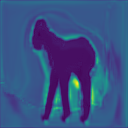
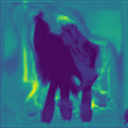
run on several objects

diff --git a/run_all.py b/run_all.py
@@ -1,0 +1,159 @@
+#!/usr/bin/env python
+import os
+import sys
+import cv2
+import numpy as np
+import random
+import h5py
+from argparse import ArgumentParser
+
+# Import Mask RCNN
+ROOT_DIR_MASK = os.path.dirname(os.path.realpath(__file__))
+# ROOT_DIR_MASK = os.path.abspath("../")
+ROOT_DIR_MASK += "/Mask_RCNN"
+sys.path.append(ROOT_DIR_MASK)  # To find local version of the library
+from mrcnn import utils
+from mrcnn import visualize
+import mrcnn.model as modellib
+
+# Import COCO config
+sys.path.append(os.path.join(ROOT_DIR_MASK, "samples/coco/"))  # To find local version
+import coco
+
+# Import all Monkey-Net resources
+import matplotlib
+matplotlib.use('Agg')
+import torch
+from transfer import transfer_one
+import yaml
+from logger import Logger
+from modules.generator import MotionTransferGenerator
+from modules.keypoint_detector import KPDetector
+import imageio
+from sync_batchnorm import DataParallelWithCallback
+from frames_dataset import read_video
+from augmentation import VideoToTensor
+
+
+
+
+
+# Directory to save logs and trained model
+MODEL_DIR = os.path.join(ROOT_DIR_MASK, "logs")
+# Local path to trained weights file
+COCO_MODEL_PATH = os.path.join(ROOT_DIR_MASK, "mask_rcnn_coco.h5")
+# Download COCO trained weights from Releases if needed
+if not os.path.exists(COCO_MODEL_PATH):
+    utils.download_trained_weights(COCO_MODEL_PATH)
+
+
+# Mask RCNN
+class InferenceConfig(coco.CocoConfig):
+    # Set batch size to 1 since we'll be running inference on
+    # one image at a time. Batch size = GPU_COUNT * IMAGES_PER_GPU
+    GPU_COUNT = 1
+    IMAGES_PER_GPU = 1
+
+
+class RoisDetector(object):
+    def __init__(self):
+        self.config = InferenceConfig()
+        # self.config.display()
+        # Create model object in inference mode.
+        self.model = modellib.MaskRCNN(mode="inference", model_dir=MODEL_DIR, config=self.config)
+        # Load weights trained on MS-COCO
+        self.model.load_weights(COCO_MODEL_PATH, by_name=True)
+
+        # COCO Class names
+        # Index of the class in the list is its ID. For example, to get ID of
+        # the teddy bear class, use: class_names.index('teddy bear')
+        self.class_names = ['BG', 'person']
+
+    def get_rois(self, origin_image):
+        # Run detection
+        results = self.model.detect([origin_image], verbose=0)
+        r = results[0]
+        rois = []
+        for i in range(len(r['class_ids'])):
+            y1, x1, y2, x2 = r['rois'][i]
+            rois.append([min(x1, x2), min(y1, y2), max(x1, x2), max(y1, y2)])
+        return rois
+
+
+if __name__ == "__main__":
+    parser = ArgumentParser()
+    parser.add_argument("--image", default='sup-mat/tai-chi.jpg', help="Path to input image")
+    parser.add_argument("--driving_video", required = True, help = 'The driving video')
+    parser.add_argument("--config", required = True, help = "The configuration")
+    parser.add_argument("--checkpoint", required = True, help = "The checkpoint")
+    parser.add_argument("--image_shape", default = (128, 128), type = lambda x: tuple([int(a) for a in x.split(',')]), help = 'Image shape')
+    parser.add_argument("--out_file", default = 'demo', help = "Name of output file without format")
+    parser.add_argument("--cpu", dest = "cpu", action = "store_true", help = "Use cpu")
+
+    opt = parser.parse_args()
+    image = cv2.imread(opt.image)
+
+    rd = RoisDetector()
+    rois = rd.get_rois(image)
+    img = np.copy(image)
+    
+
+    with open(opt.config) as f:
+            config = yaml.load(f)
+            blocks_discriminator = config['model_params']['discriminator_params']['num_blocks']
+            assert len(config['train_params']['loss_weights']['reconstruction']) == blocks_discriminator + 1
+
+    generator = MotionTransferGenerator(**config['model_params']['generator_params'], 
+                                            **config['model_params']['common_params'])
+
+    if not opt.cpu:
+        generator = generator.cuda()
+
+    kp_detector = KPDetector(**config['model_params']['kp_detector_params'], 
+                                 **config['model_params']['common_params'])
+    if not opt.cpu:
+        kp_detector = kp_detector.cuda()
+
+    Logger.load_cpk(opt.checkpoint, generator = generator, kp_detector = kp_detector)
+
+    generator = DataParallelWithCallback(generator)
+    kp_detector = DataParallelWithCallback(kp_detector)
+
+    generator.eval()
+    kp_detector.eval()
+
+
+
+    for i, roi in enumerate(rois):
+        (x1, y1, x2, y2) = roi
+        cv2.rectangle(image, (x1, y1), (x2, y2), (0,0,255), 2)
+        #cv2.imwrite('object' + str(i) + '.png', img[y1:y2, x1:x2])
+
+        """ HERE RUN MONKEY-NET ON THE SEPARATE OBJECT """
+        inp_img = np.zeros(shape = opt.image_shape)
+        inp_img = cv2.resize(src = img[y1:y2, x1:x2], dst = inp_img, dsize = inp_img.shape)
+        cv2.imwrite('object' + str(i) + '.png', inp_img)
+
+        with torch.no_grad():
+            driving_video = VideoToTensor()(read_video(opt.driving_video, opt.image_shape + (3, )))['video']
+            source_image = VideoToTensor()(read_video('object' + str(i) + '.png', opt.image_shape + (3, )))['video'][:, :1]
+            #print("source image shape " + str(source_image.shape))
+            #print("inp_img shape " + str(inp_img.shape))
+
+            driving_video = torch.from_numpy(driving_video).unsqueeze(0)
+            source_image = torch.from_numpy(source_image).unsqueeze(0)
+
+            out = transfer_one(generator, kp_detector, source_image, driving_video, config['transfer_params'])
+
+            out_video_batch = out['video_prediction'].data.cpu().numpy()
+            out_video_batch = np.transpose(out_video_batch, [0, 2, 3, 4, 1])[0]
+            imageio.mimsave(opt.out_file + str(i) + '.gif', (255 * out_video_batch).astype(np.uint8))
+
+
+    print("Created " + str(len(rois)) + " new gifs.")
+    cv2.imwrite('find_rois.png',image)
+    #cv2.imshow('ROIS', image)
+    #cv2.waitKey(0)
+    #cv2.destroyAllWindows()
+
+

diff --git a/modules/keypoint_detector.py b/modules/keypoint_detector.py
@@ -97,7 +97,7 @@ class KPDetector(nn.Module):
 
     def forward(self, x):
 
-        print("x " + str(x.data.shape))
+        #print("x " + str(x.data.shape))
         plt.imsave("visual/mgif_heatsource.png", x.data[0, 0, 0].cpu().numpy())
         
         if self.scale_factor != 1:
@@ -109,7 +109,7 @@ class KPDetector(nn.Module):
         heatmap = F.softmax(heatmap / self.temperature, dim=3)
         heatmap = heatmap.view(*final_shape)
 
-        print(heatmap.data.shape)
+        #print(heatmap.data.shape)
         for i, hmap in enumerate(heatmap.data[0].cpu().numpy()):
             plt.imsave("visual/mgif_heat" + str(i) + ".png", hmap[0])
         
